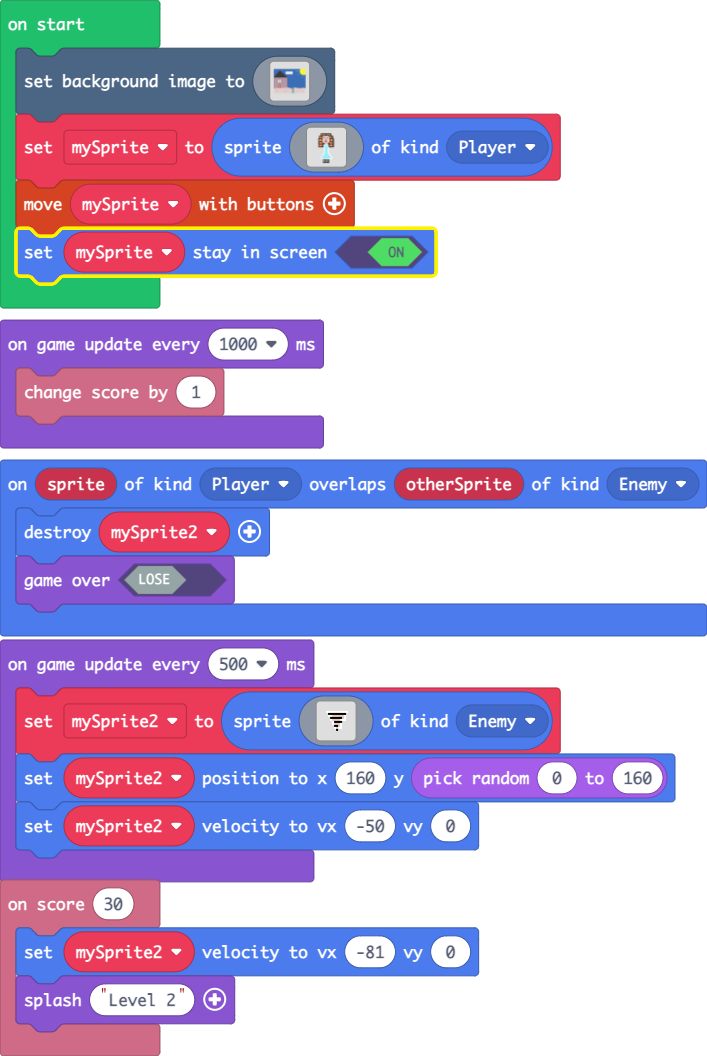
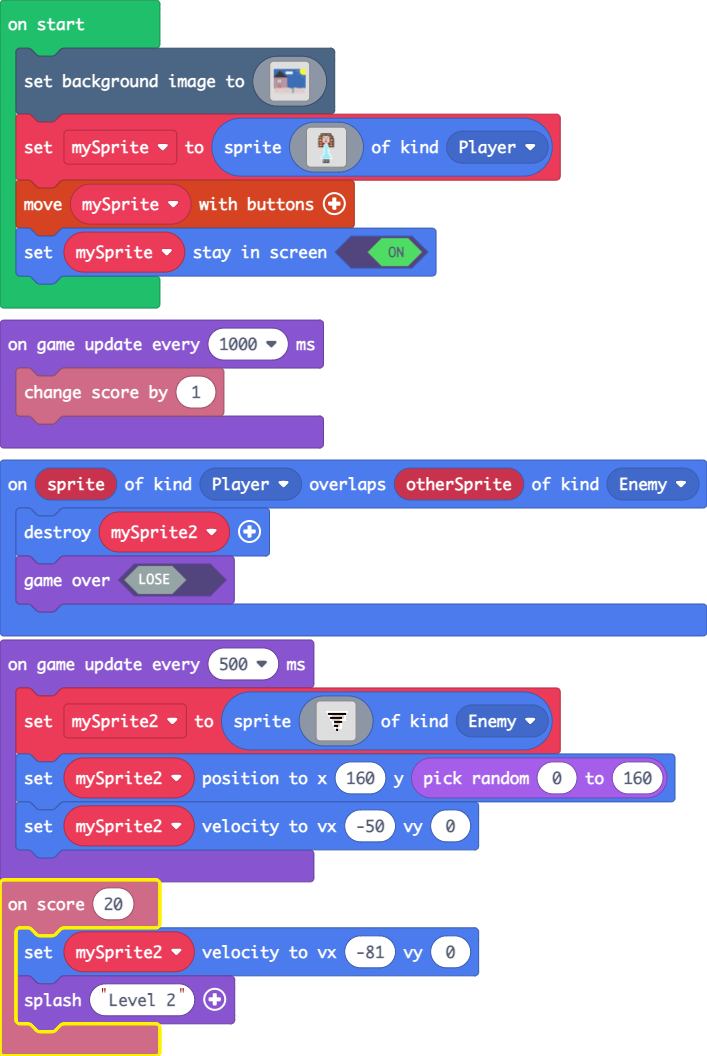
Update main.blocks, main.ts

diff --git a/main.ts b/main.ts
@@ -1,4 +1,4 @@
-info.onScore(30, function () {
+info.onScore(20, function () {
     mySprite2.setVelocity(-81, 0)
     game.splash("Level 2")
 })
